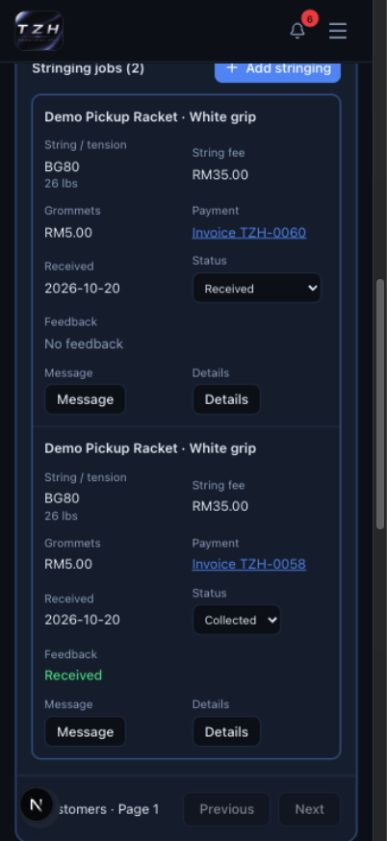
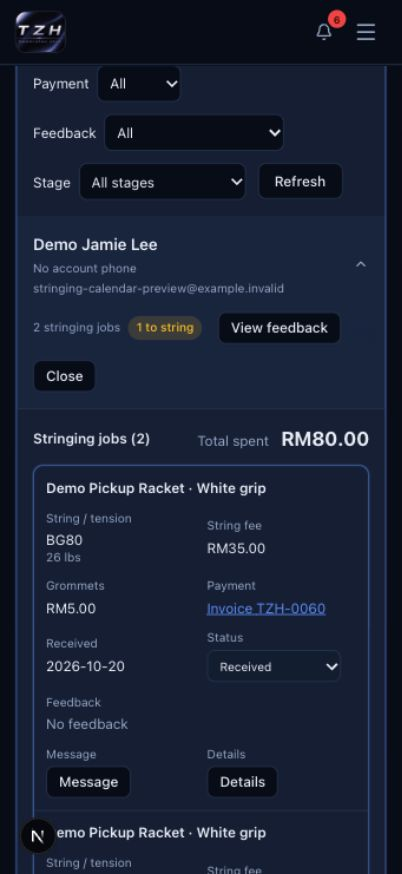
Update admin stringing walkthrough and screenshots

diff --git a/website/stringing.md b/website/stringing.md
@@ -26,26 +26,41 @@ still arrange exceptions directly.
 </details>
 
 <details>
-<summary><strong>1 · Add customer</strong></summary>
+<summary><strong>1 · Choose a customer</strong></summary>
 
-**Customers → Add customer → search member → select → Add contact.**
-The customer must have a registered account.
+**Add stringing → search member → select.** Search by name, email or phone.
+The customer must have a registered account. Continue with the racket details in
+the same form; selecting a member or cancelling does not create a record.
+A red customer field means no account matched or a search result still needs
+to be selected. Correct the search and choose a result to enable Save.
 
-![Search and select a registered customer](../images/stringing/quick-add-customer.jpg)
+![Customer selection error](../images/stringing/invalid-customer-desktop.png)
+
+![Search and select a registered customer](../images/stringing/direct-stringing-member-picker.png)
 
 </details>
 
 <details>
 <summary><strong>2 · Add stringing</strong></summary>
 
-**Customers → View stringing → Add stringing.** Enter the **Racket name**, string,
+**Add stringing** at the top of the workspace. Search and select a registered
+member, then type in **Racket name** and **String** to choose a previous name.
+For a new name, choose **Add new racket** or **Add new string**; it becomes
+available next time after you save the job. Enter
 tension and fees, then **Save**. Pickup needs both date and time, or neither.
+Both fee boxes start blank with a 0.00 hint. Enter the string fee; leave
+Grommets blank for RM0.00.
+
+![Matching fee fields](../images/stringing/matching-fee-inputs.png)
+
 Extra instructions go in **Notes**. Repeat for each racket the customer brings;
 identical names can have separate jobs. No separate racket setup is needed.
 
-![Add a stringing job with its racket name](../images/stringing/job-first-add-stringing.png)
+![Search previously used racket names](../images/stringing/racket-name-suggestions-desktop.png)
 
-![The same job form on mobile](../images/stringing/job-first-add-stringing-mobile.png)
+![Add a new string name](../images/stringing/new-string-name-desktop.png)
+
+![Search or add names on mobile](../images/stringing/new-string-name-mobile.png)
 
 </details>
 
@@ -53,13 +68,23 @@ identical names can have separate jobs. No separate racket setup is needed.
 <summary><strong>3 · See all jobs under a customer</strong></summary>
 
 **Customers → View stringing.** Each racket visit has its own row, including
-completed jobs. Check string/tension, separate fees, payment, received date,
-and status. The **Feedback** column shows **No feedback** or **Received**; click
-**Received** to read that visit’s response. **Message** and **Details** have
+completed jobs. **Total spent** at the right above the job rows adds all confirmed
+stringing and grommet payments, including paid jobs removed from the list. Unpaid
+jobs are excluded. Check string/tension, separate fees, payment, received date,
+and status. The **Feedback** column shows **No feedback** or an underlined **View feedback**
+action to read that visit’s response. **Message** and **Details** have
 separate columns. Use **View feedback** on the customer header to read all their
 responses, with racket details and service dates. Use **Message** on a row to prepare a message
 for that job; opening the composer does not send it. Open **Details** for that specific job; **Edit stringing**
 can correct its racket name while it is unpaid and open.
+For paid or completed jobs, use **Details → … → Edit**, enter the
+correct racket/string names and a reason, then **Save correction**. The change
+is audited; payment amounts and issued invoices stay unchanged. A typo stops
+appearing in suggestions once no other job uses it.
+
+![Correct names on a paid or completed job](../images/stringing/correct-job-names-desktop.png)
+
+![Name correction on mobile](../images/stringing/correct-job-names-mobile.png)
 
 ![Each stringing visit listed directly under its customer](../images/stringing/job-feedback-customer-jobs-desktop.png)
 
@@ -91,6 +116,10 @@ Status changes do not send WhatsApp or record payment.
 
 <a id="record-full-payment"></a>
 
+**Reset filters** clears the customer search and all three filters. Paid invoice
+links show the reference only, such as **TZH-0060**.
+Invoice links align with **Mark Paid** in the Payment column.
+
 **Payment received?** In the timetable Payment column, choose **Mark Paid** →
 review the fees and payment date → confirm full payment. The same button is on
 mobile job cards and in job Details. Confirming records money received and awards
@@ -109,11 +138,20 @@ stays unchanged. Cancel records nothing. If the invoice is unavailable, use
 <details>
 <summary><strong>6 · Calendar</strong></summary>
 
-Scroll below the daily list. **Click a date** for its agenda; red shows overdue work.
+Choose a date in the daily date box to update the schedule immediately, or use
+the arrows / **Today**.
+The daily date controls appear together; the month grid below provides an overview.
+Scroll below the daily list. **Click a date or any job inside it** to select that
+day and return to its table; red shows overdue work. Use the table’s **Edit**
+button to edit a job.
 Completed pickups stay visible. On desktop, **drag an unpaid open item → review →
 Save** to reschedule; on mobile, use the daily **Edit** action.
 
 ![Monthly overview with overdue and completed pickups](../images/stringing/quick-calendar.jpg)
+
+![Single daily date toolbar](../images/stringing/timetable-date-toolbar.png)
+
+![Calendar job selection returns to that day's table](../images/stringing/calendar-open-day.png)
 
 </details>
 
@@ -165,12 +203,20 @@ specific job's composer. Removing a job retains its response in admin history.
 <details>
 <summary><strong>9 · WhatsApp reminder for the next stringing</strong></summary>
 
-**Follow-ups → Manage job reminder → Message → Open WhatsApp → send → Mark as sent.**
+**Follow-ups → Send reminder → Message → Open WhatsApp → send → Mark as sent.**
 Or open **job Details → … → Restring reminder**.
 
 Default: **45 days after collection**. Change the interval or disable it in
 **Settings**. Each job has its own reminder; a newer job does not replace it.
 Marking the reminder sent closes only that job’s follow-up.
+
+Disabled reminders show **Reminder settings** so you can enable them again.
+
+Filter by **Due** (today or overdue), **Upcoming** (future reminders),
+**Contact done** (manually marked as sent), or **Disabled** (switched off).
+Opening WhatsApp alone does not mark contact done.
+
+![Stringing follow-up filters](../images/stringing/follow-up-filters.png)
 
 ![Reminder settings for one stringing job](../images/stringing/job-first-reminder.png)
 

diff --git a/changelog/2026-10-26.md b/changelog/2026-10-26.md
@@ -15,3 +15,15 @@
 - [Job-specific feedback and user history](../website/stringing.md): one response per job, private links through Message, and one read-only View feedback button per customer. Awaiting deployment.
 
 - [Check feedback for a specific stringing visit](../website/stringing.md): job feedback status with separate Message and Details columns; full customer feedback history remains available. Awaiting deployment.
+
+- [See each stringing customer’s total spend](../website/stringing.md): confirmed stringing and grommet payments shown above their job rows. Awaiting deployment.
+
+- [Add stringing in one form](../website/stringing.md): select a registered member and enter the racket details directly from the top Add stringing button. Awaiting deployment.
+
+- [Reuse racket and string names](../website/stringing.md): searchable dropdowns with Add new options; new names become available after saving the job. Awaiting deployment.
+
+- [Correct racket and string names on completed jobs](../website/stringing.md): audited corrections with a required reason, while payments and issued invoices stay unchanged. Awaiting deployment.
+
+- [Find stringing reminders](../website/stringing.md): simpler Due, Upcoming, Contact done and Disabled filters. Awaiting deployment.
+
+- [Navigate admin stringing](../website/stringing.md): Reset filters, Send reminder, shorter invoice references and a single daily date toolbar that updates when a date is chosen. Awaiting deployment.
